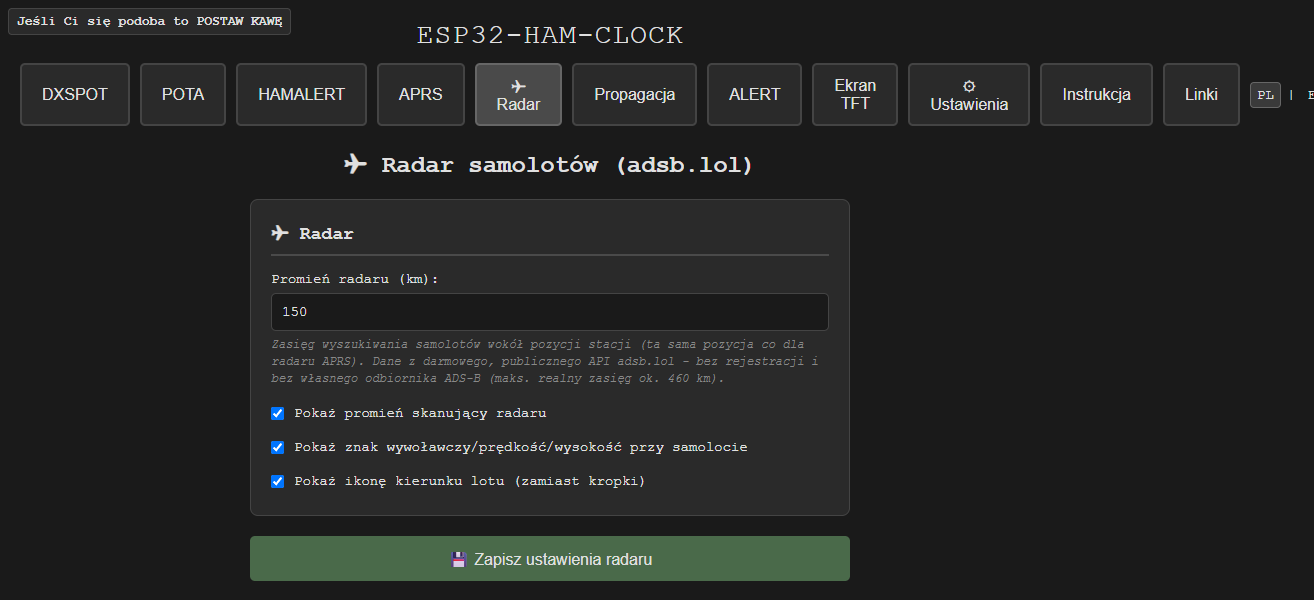
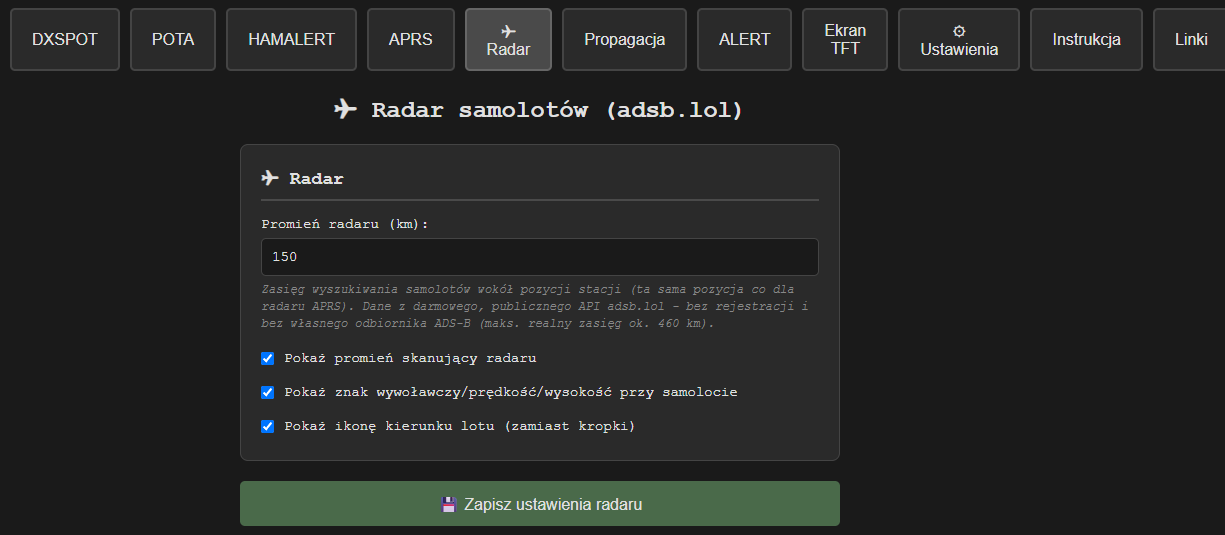
README: web panel screenshots one under the other

diff --git a/README.pl.md b/README.pl.md
@@ -55,8 +55,10 @@ Dane mapy © autorzy OpenStreetMap (ODbL).
 ## Panel WWW
 
 <p align="center">
-  <img src="docs/images/web-radar-settings-pl.png" width="62%" alt="Panel WWW, strona Radar: promień, linia skanowania, opisy, ikona kierunku">
-  <img src="docs/images/web-screen-order.png" width="30%" alt="Panel WWW, kolejność ekranów z APRS MAP i AIRCRAFT RADAR">
+  <img src="docs/images/web-radar-settings-pl.png" width="85%" alt="Panel WWW, strona Radar: promień, linia skanowania, opisy, ikona kierunku">
+</p>
+<p align="center">
+  <img src="docs/images/web-screen-order.png" width="38%" alt="Panel WWW, kolejność ekranów z APRS MAP i AIRCRAFT RADAR">
 </p>
 <p align="center"><sub>Strona Radar i kolejność ekranów z folderu <code>data/</code> tego forka, podane przez lokalny
 serwer testowy (ustawienia są przykładowe).</sub></p>

diff --git a/README.md b/README.md
@@ -56,8 +56,10 @@ Map data © OpenStreetMap contributors (ODbL).
 ## Web panel
 
 <p align="center">
-  <img src="docs/images/web-radar-settings.png" width="62%" alt="Web panel, Radar page: radius, sweep line, labels, heading icon">
-  <img src="docs/images/web-screen-order.png" width="30%" alt="Web panel, TFT Screens (order) with APRS MAP and AIRCRAFT RADAR">
+  <img src="docs/images/web-radar-settings.png" width="85%" alt="Web panel, Radar page: radius, sweep line, labels, heading icon">
+</p>
+<p align="center">
+  <img src="docs/images/web-screen-order.png" width="38%" alt="Web panel, TFT Screens (order) with APRS MAP and AIRCRAFT RADAR">
 </p>
 <p align="center"><sub>The Radar page and the page order, taken from this fork's <code>data/</code> folder served by a
 local test server (the settings shown are examples).</sub></p>
